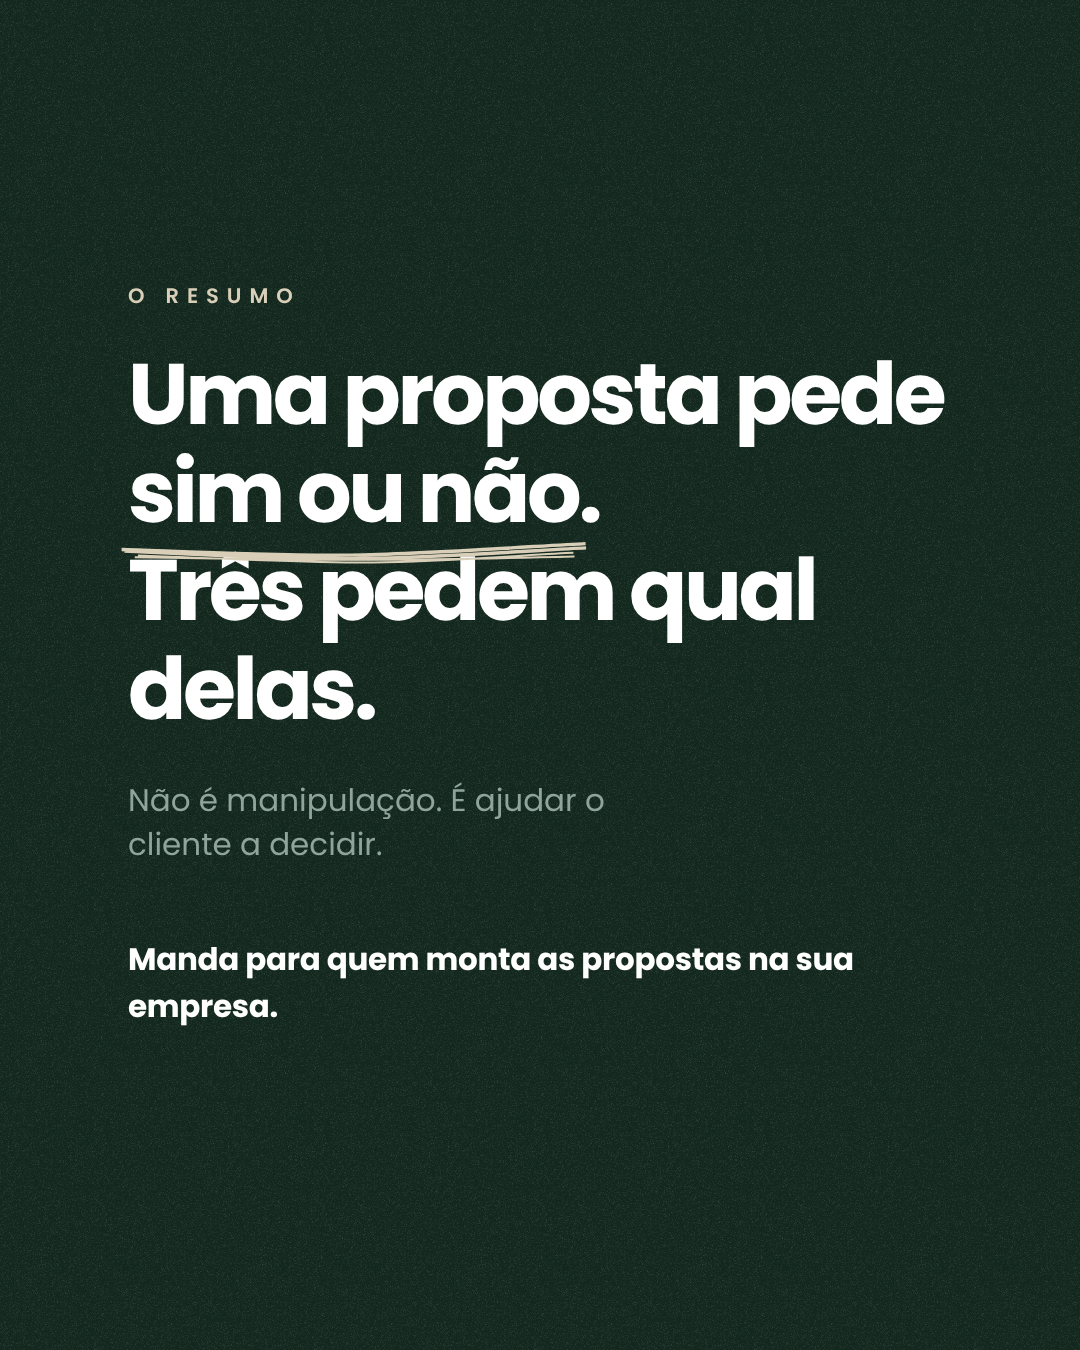
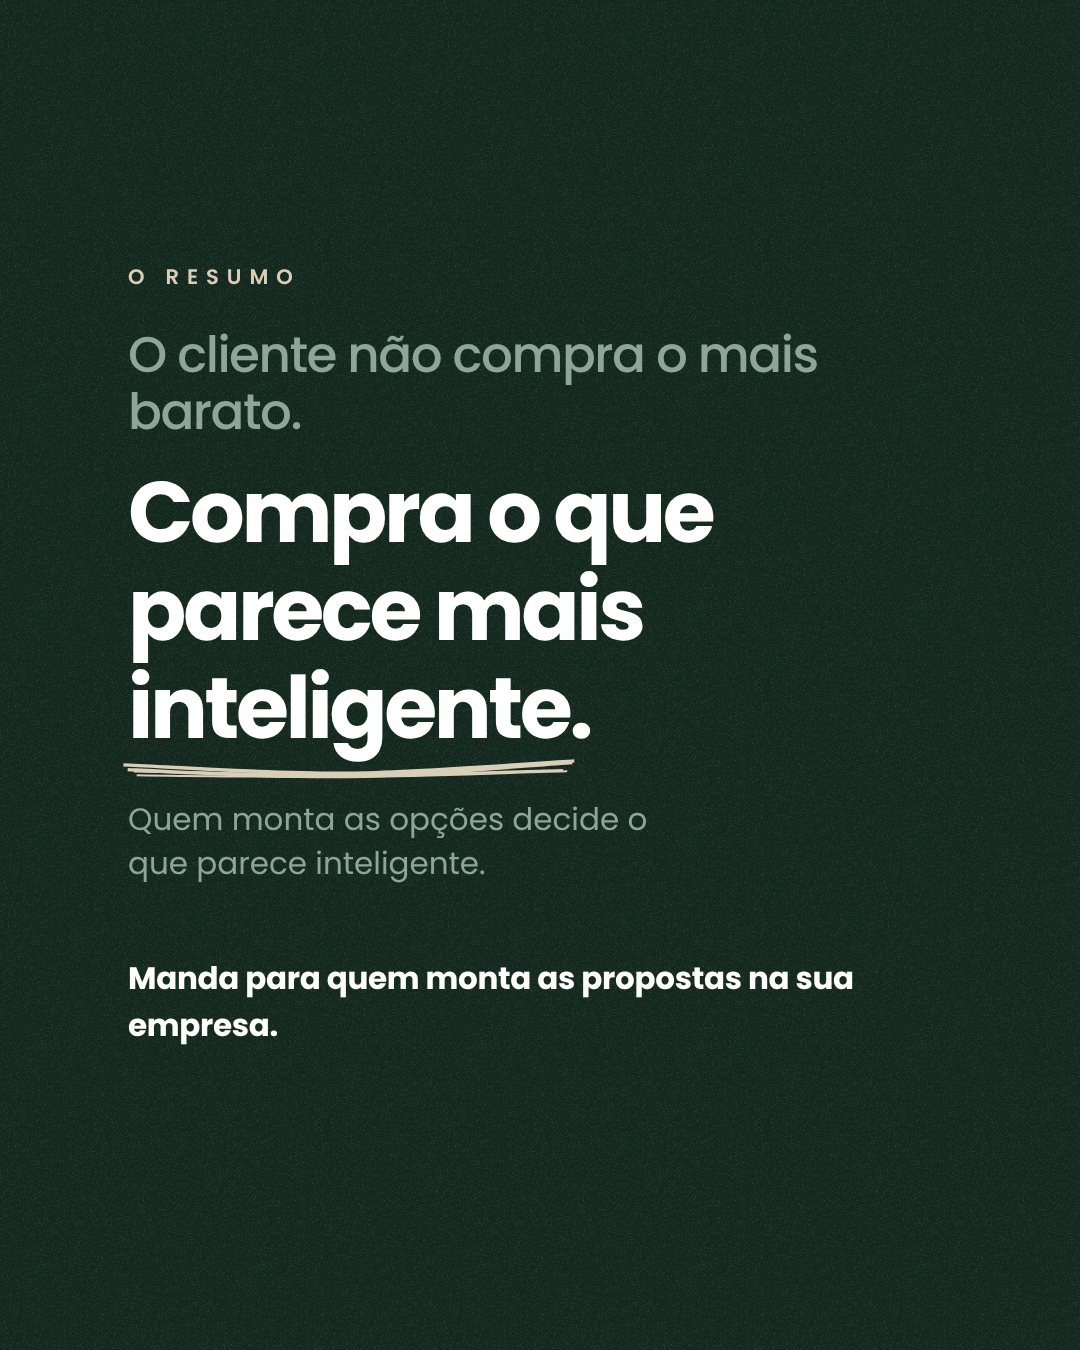
Carrossel 06: novo resumo (opção E) com linha de entrada + título
Claude-Session: https://claude.ai/code/session_01CR2zLXebwu2nvAjBiSDjK9

Changed region(s): [[0.1222, 0.2489, 0.8861, 0.6533], [0.1222, 0.6844, 0.7944, 0.7778], [0.1222, 0.1867, 0.275, 0.2178]]

diff --git a/carrossel/index.html b/carrossel/index.html
@@ -170,6 +170,7 @@ body.render .frame .num{display:none}
 /* CTA / resumo */
 .ctt{font:700 86px/1.14 Poppins,sans-serif;letter-spacing:-.04em;margin:0;color:var(--ink)}
 .ctt em{font-style:italic}
+.ctpre{font:500 50px/1.15 Poppins,sans-serif;letter-spacing:-.03em;color:var(--muted);margin-bottom:22px}
 .ctx{margin-top:40px;font:400 31px/1.42 Poppins,sans-serif;color:var(--muted);max-width:560px}
 .cta{margin-top:70px;font:700 31px Poppins,sans-serif;letter-spacing:-.01em;color:var(--ink)}
 .cta em{color:var(--ac)}
@@ -429,6 +430,7 @@ function renderSlide(s, i, total){
       <div class="body">
         ${s.foto?`<div class="avatar"><img src="${esc(s.foto)}" alt=""></div>`:""}
         ${s.kicker?`<div class="kick">${fmt(s.kicker)}</div>`:""}
+        ${s.pre?`<div class="ctpre">${fmt(s.pre)}</div>`:""}
         <h2 class="ctt">${fmt(s.titulo)}</h2>
         ${s.texto?`<div class="ctx">${fmt(s.texto)}</div>`:""}
         <div class="cta">${fmt(s.chamada || "Salva esse post e segue {handle}")}</div>
